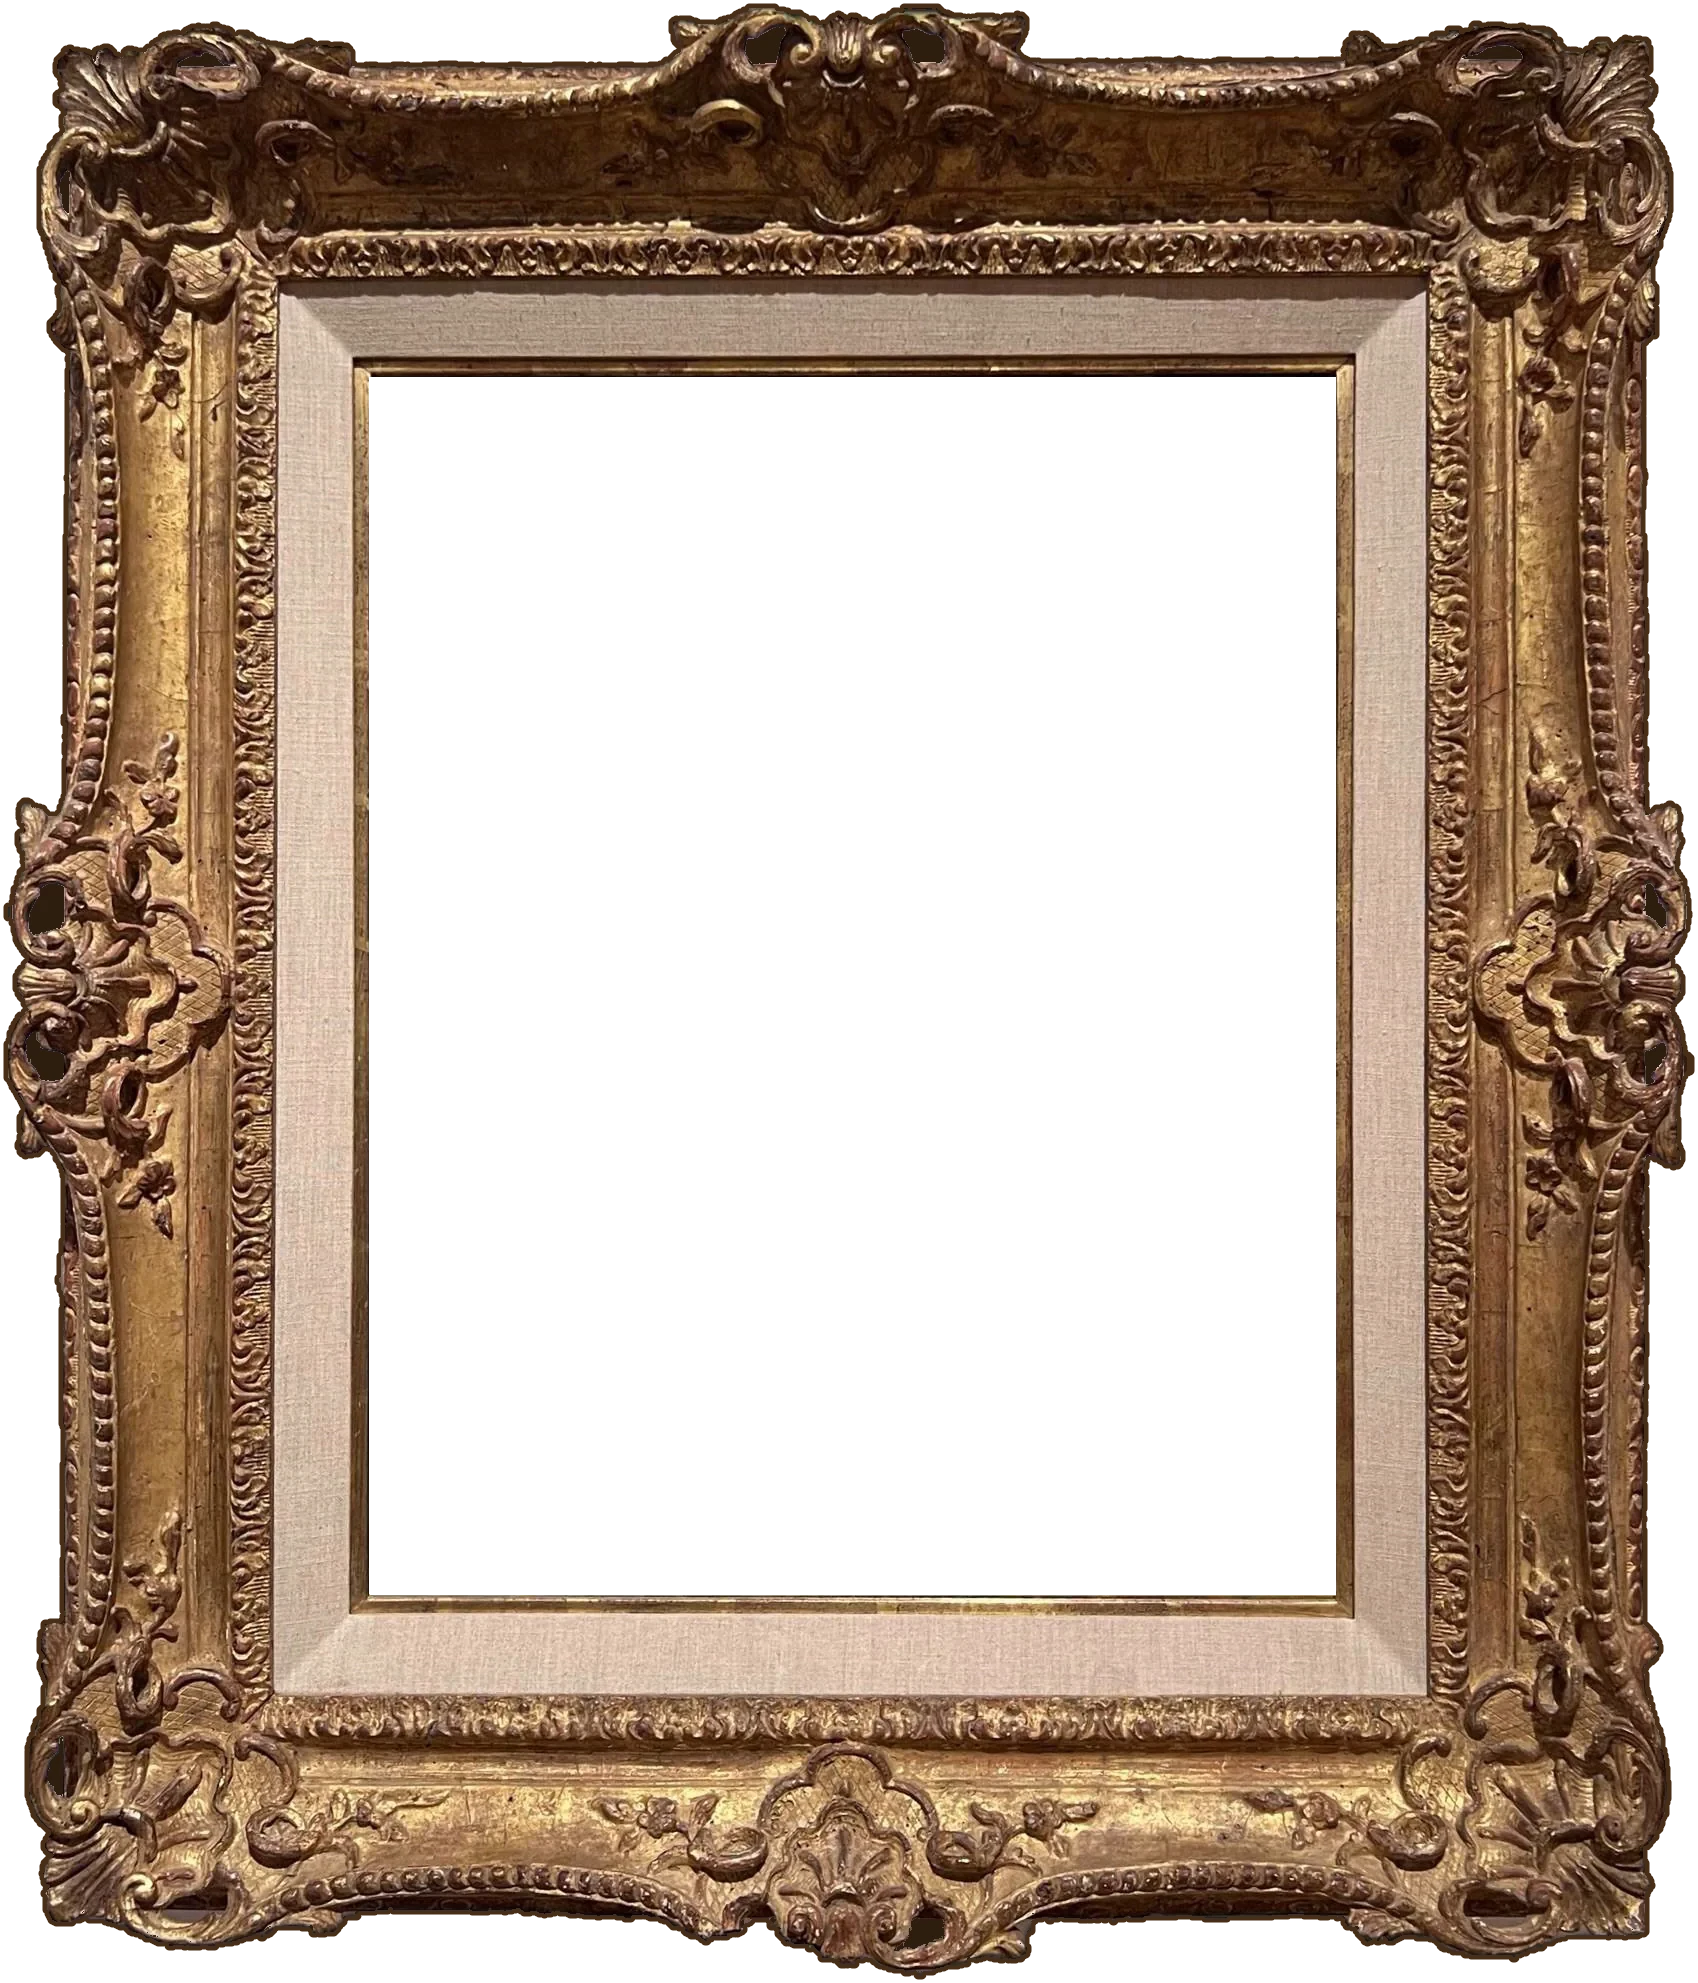
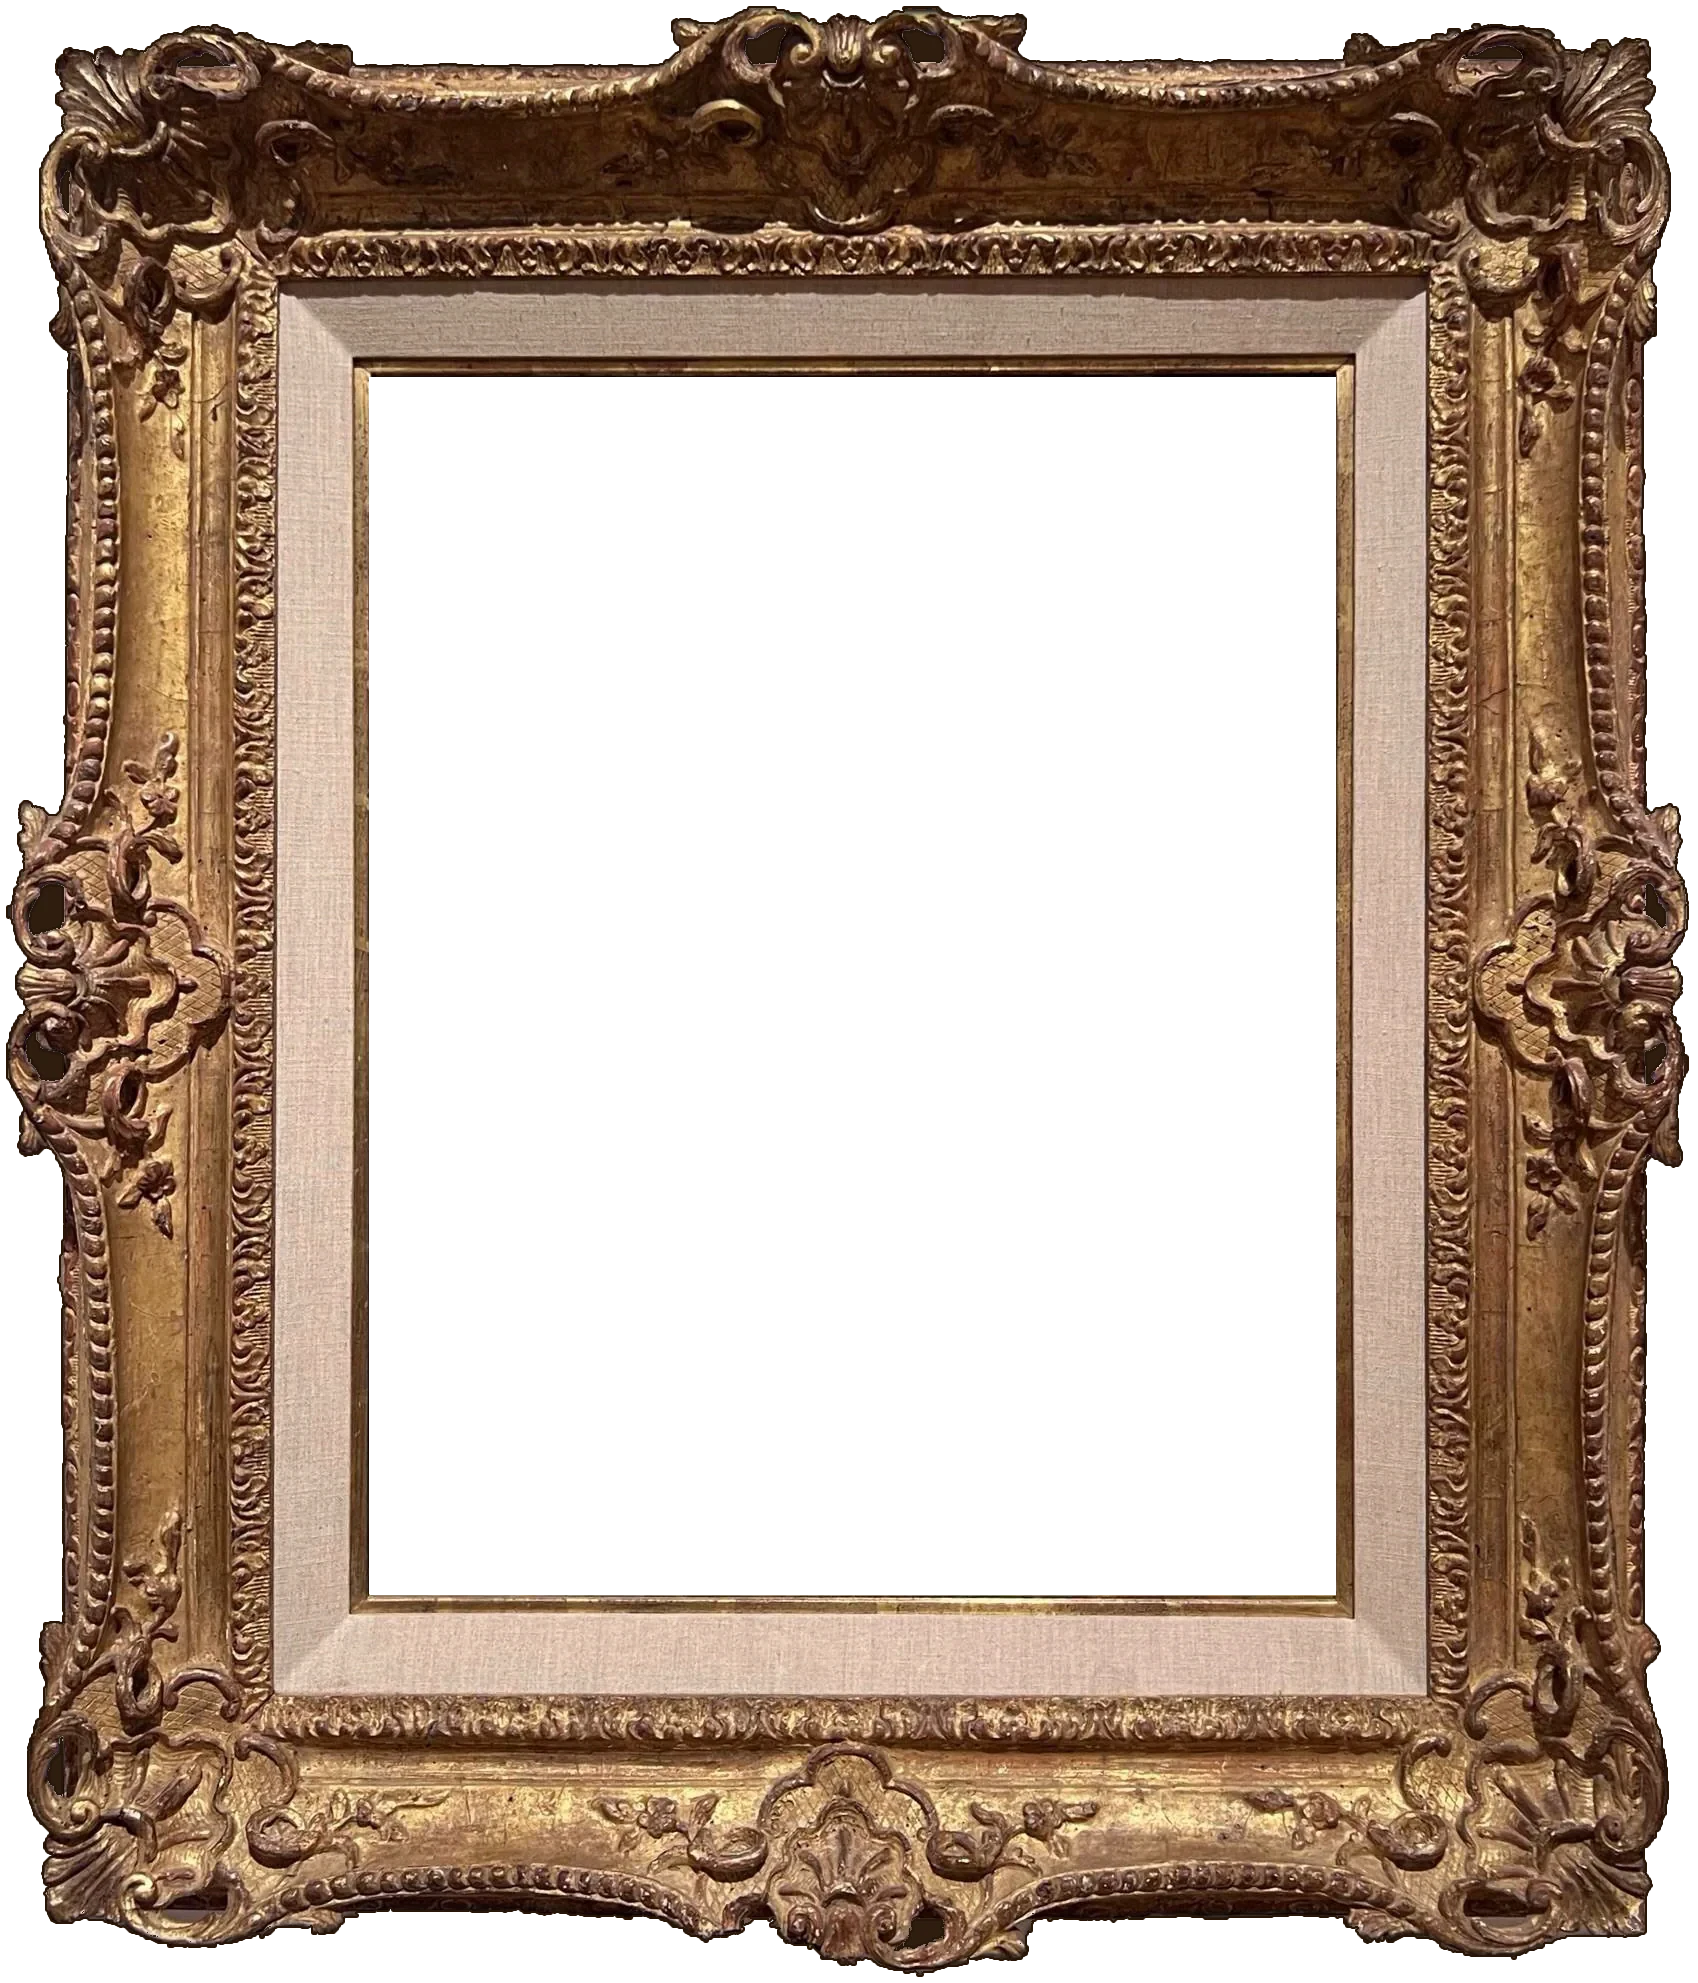
Ornate frame: a thinner, darker outline round the carving

diff --git a/CLAUDE.md b/CLAUDE.md
@@ -16,7 +16,7 @@ Every artist is a chapter, opened one picture at a time in their order (`stateOf
 
 On a solved puzzle, tapping the painting, or the ⓘ after its title, opens a wall card. Its title stays put and the text between it and Close scrolls, fading at an edge with more beyond and showing a small arrow that reads on until the end is in view. For a picture with a story in `puzzles/stories.json` (about 340: the scripture, saint's life, myth, literature or history behind it, what this picture shows, and passages copied word for word from public-domain editions, each named in its `sources` and credited at the foot of the card), the card tells that story; it is built by `node stories/build.js` from `stories/spec/`, whose downloaded texts sit in the git-ignored `stories/texts/`, and `mockups/stories-review.html` shows it all for review. Where a story has no passage to quote, and for every picture without a story, the card gives a few sentences on the picture from `puzzles/blurbs.json`: the opening of its English Wikipedia article where it has one (found through the `wikidata` id in its record, CC BY-SA 4.0, so the card names and links the article and the licence), and otherwise the museum's own description: Cleveland's (CC0), the Art Institute of Chicago's (its API gives `description` under CC BY 4.0, so the card names and links that licence too) or the National Gallery of Art's from its open data (CC0). The Met gives none. A picture with neither has no ⓘ, and tapping it does nothing. Kids mode hides it, since an article can speak plainly of what the settings hide. `node describe.js all` (or a category's name) writes the text; `--records <folder>` also reads source records kept elsewhere. WikiArt is not used: its terms forbid commercial use. Run it again after adding pictures.
 
-A solved puzzle hangs in a carved, gilt frame, a photograph cut out of its background: `frames/gilt-frame.webp`, and the same frame turned on its side, `frames/gilt-frame-landscape.webp`, for a picture wider than it is tall. It carries a fine brown outline round the carving, drawn into the file, with 8 clear pixels on each side to hold it. The frame is drawn in nine pieces, so its corners keep their shape and only the runs between them stretch to the picture; the widths of its sides are set on `.plate` in `style.css`. Settings has a Frame choice between this one, Ornate, and Minimalist, the plain gilt edge the styles draw by themselves (`.frame`, put on by `.plate.plain`); the choice is remembered, and Ornate is the usual one. The photograph is the user's own, as `frames/CREDITS.md` records; a frame from anywhere else needs its photographer's CC0, a frame not being a flat work.
+A solved puzzle hangs in a carved, gilt frame, a photograph cut out of its background: `frames/gilt-frame.webp`, and the same frame turned on its side, `frames/gilt-frame-landscape.webp`, for a picture wider than it is tall. It carries a fine dark-brown outline round the carving, about 2.5 pixels of the file, drawn into it, with 8 clear pixels on each side to hold it. The frame is drawn in nine pieces, so its corners keep their shape and only the runs between them stretch to the picture; the widths of its sides are set on `.plate` in `style.css`. Settings has a Frame choice between this one, Ornate, and Minimalist, the plain gilt edge the styles draw by themselves (`.frame`, put on by `.plate.plain`); the choice is remembered, and Ornate is the usual one. The photograph is the user's own, as `frames/CREDITS.md` records; a frame from anywhere else needs its photographer's CC0, a frame not being a flat work.
 
 ## Rights: everything must be fit for a paid app
 

diff --git a/frames/CREDITS.md b/frames/CREDITS.md
@@ -5,4 +5,4 @@
 | `gilt-frame.webp` | A carved, gilt frame with a linen liner, cut out of its background | Taken by the app's owner (stated 11 October 2026) | The owner's own work |
 | `gilt-frame-landscape.webp` | The same file turned a quarter turn | as above | as above |
 
-The opening, the surround and the pierced holes in the carving were made transparent, and a grey rim trimmed from the outer edge. Slivers of the grey wall left along the right side (rows 889 to 1064 of the upright file) were removed on 13 October 2026, and a fine outline in dark brown (#482e18, about 5 pixels of the file) was drawn round the outside of the carving and its pierced holes, not round the opening. The pierced holes in the carving (47 of them, on the sides, crests and corners) were filled with a deep shadow brown (#2e1d0f) so that the wall does not show through them as pale spots, and grey left along the rim was repainted brown. The file has 8 clear pixels on every side so that the outline is not cut off.
+The opening, the surround and the pierced holes in the carving were made transparent, and a grey rim trimmed from the outer edge. Slivers of the grey wall left along the right side (rows 889 to 1064 of the upright file) were removed on 13 October 2026, and a fine outline in dark brown was drawn round the outside of the carving and its pierced holes, not round the opening; on 21 October 2026 it was redrawn thinner and darker (#26160a, about 2.5 pixels of the file). The pierced holes in the carving (47 of them, on the sides, crests and corners) were filled with a deep shadow brown (#2e1d0f) so that the wall does not show through them as pale spots, and grey left along the rim was repainted brown. The file has 8 clear pixels on every side so that the outline is not cut off.
